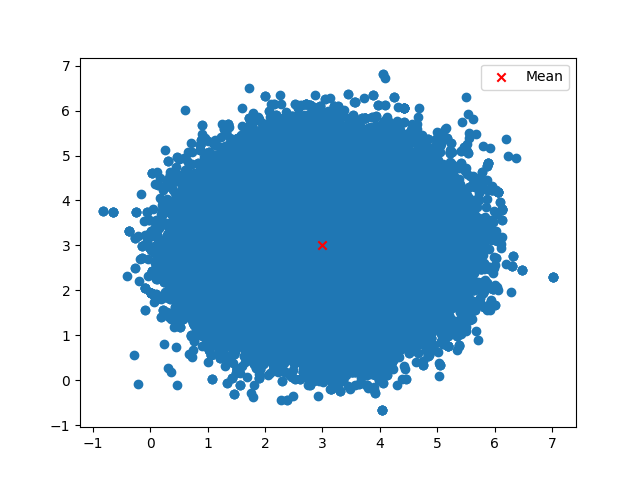
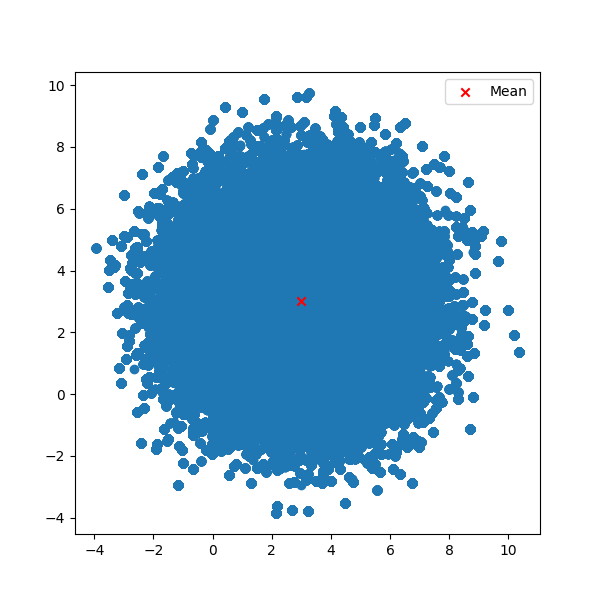
update

diff --git a/jaxhmc/mcmc.py b/jaxhmc/mcmc.py
@@ -9,15 +9,13 @@ from jaxhmc.integrators import leapfrog
 from jaxhmc.potentials import Potential
 
 
-def sample_gaussian_from_precision(batch_size: int, dim: int, precision: jax.Array, key: jax.Array):
-    # We first compute the Cholesky decomposition of the precision matrix
-    L = jnp.linalg.cholesky(precision)
+def sample_gaussian_from_precision(batch_size: int, dim: int, precm_L: jax.Array, key: jax.Array):
     # Then we sample from a standard normal distribution and transform it
     key, subkey = jax.random.split(key, 2)
     z = jax.random.normal(subkey, shape=(batch_size, dim))
 
     # We have x = L^{-T}z, so L^{T}x = z
-    x = jnp.linalg.solve(L.T[None, ...], z[..., None])
+    x = jnp.linalg.solve(precm_L.T[None, ...], z[..., None])
     x = x.squeeze(-1)
     return x, key
 
@@ -40,6 +38,7 @@ def mh(
     potential: Potential,
     potential_grad: nnx.Module,
     precm: jax.Array,
+    precm_L: jax.Array,
     step_size: int,
     steps: int,
     batch_size: int,
@@ -49,7 +48,7 @@ def mh(
     p, key = sample_gaussian_from_precision(
         batch_size,
         potential.dim,
-        precm,
+        precm_L,
         key,
     )
 
@@ -88,16 +87,22 @@ def hmc(potential: Potential, initial_position: jax.Array, config: HMCConfig):
     # and (ii) Metropolis correction. We also update the
     # step size with Robbins-Monro's dual averaging algorithm.
 
-    potential_grad = jax.vmap(jax.grad(potential), in_axes=0)
+    pot_grad_vmap = jax.vmap(jax.grad(potential), in_axes=0)
+    pot_vmap = jax.vmap(potential, in_axes=0)
+
     step_size = config.initial_step_size
+
+    # We first compute the Cholesky decomposition of the precision matrix
+    Lp = jnp.linalg.cholesky(config.initial_precm)
 
     _, (p, q) = jax.lax.scan(
         f=partial(
             mh,
-            potential=potential,
-            potential_grad=potential_grad,
+            potential=pot_vmap,
+            potential_grad=pot_grad_vmap,
             step_size=step_size,
             precm=config.initial_precm,
+            precm_L=Lp,
             steps=config.max_path_len // step_size,
             batch_size=initial_position.shape[0],
         ),

diff --git a/examples/gaussian_mixture.py b/examples/gaussian_mixture.py
@@ -1,0 +1,55 @@
+import time
+
+import jax
+import jax.numpy as jnp
+import matplotlib.pyplot as plt
+
+from jaxhmc.mcmc import HMCConfig, hmc
+from jaxhmc.potentials import GaussianMixturePotential
+
+# We first sample a initial position
+key = jax.random.key(42)
+key, subkey = jax.random.split(key, 2)
+initial_position = jax.random.uniform(subkey, (4, 2))
+
+dim = initial_position.shape[1]
+
+# We the run the HMC
+means = jnp.vstack([jnp.ones(dim) + 2, jnp.ones(dim), jnp.ones(dim) - 2])
+
+potential = GaussianMixturePotential(means=means, sigma=0.2)
+config = HMCConfig(
+    initial_step_size=0.1,
+    max_path_len=50,
+    warmup_steps=100,
+    iterations=20_000,
+    initial_precm=jnp.eye(potential.dim),
+    key=key,
+)
+
+
+# We then JIT the sampler.
+hmc_jit = jax.jit(hmc)
+
+s = time.monotonic_ns()
+momenta, samples = hmc_jit(
+    potential=potential,
+    initial_position=initial_position,
+    config=config,
+)
+
+momenta.block_until_ready()
+samples.block_until_ready()
+e = time.monotonic_ns()
+print("Time taken with JIT:", (e - s) / 1e9)
+
+warmup = 5000
+samples = samples[warmup:]
+samples = samples.reshape(-1, 2)
+# We then plot the samples
+
+plt.scatter(samples[warmup:, 0], samples[warmup:, 1], alpha=0.6)
+plt.scatter(means[:, 0], means[:, 1], color="red", marker="x", label="Mean")
+plt.legend()
+plt.savefig("examples/gaussian_mixture_samples.png")
+plt.show()

diff --git a/jaxhmc/potentials.py b/jaxhmc/potentials.py
@@ -1,8 +1,11 @@
 from abc import abstractmethod
 
+# from functools import partial
 import flax.nnx as nnx
 import jax
 import jax.numpy as jnp
+
+# import jax.scipy as jsp
 
 
 class Potential(nnx.Module):
@@ -19,7 +22,21 @@ class GaussianPotential(Potential):
     def __init__(self, mu: jax.Array, sigma: float = 1.0):
         super().__init__(mu.shape[0])
         self.mu = mu
-        self.sigma = sigma
+        self.sigma = 2 * sigma
 
     def __call__(self, x: jax.Array) -> jax.Array:
         return jnp.sum((x - self.mu) ** 2 / self.sigma**2)
+
+
+class GaussianMixturePotential(Potential):
+    def __init__(self, means: jax.Array, sigma: float):
+        super().__init__(means.shape[1])
+        self.means = means
+        self.sigma = sigma
+        self.k = means.shape[0]
+
+    def __call__(self, x: jax.Array) -> jax.Array:
+        potential = (x - self.means) ** 2 / self.sigma**2
+        potential = jnp.sum(potential, axis=1)
+        potential = jax.nn.logsumexp(-potential / 2, axis=0)
+        return -potential + jnp.log(self.k)

diff --git a/examples/gaussian.py b/examples/gaussian.py
@@ -58,9 +58,12 @@ samples.block_until_ready()
 e = time.monotonic_ns()
 print("Time taken with JIT:", (e - s) / 1e9)  # ~ 30% speed up
 
+warmup = 2000
+samples = samples[warmup:]
 samples = samples.reshape(-1, 2)
 # We then plot the samples
-plt.scatter(samples[:, 0], samples[:, 1])
+plt.figure(figsize=(6, 6))
+plt.scatter(samples[warmup:, 0], samples[warmup:, 1])
 plt.scatter([mu[0]], [mu[1]], color="red", marker="x", label="Mean")
 plt.legend()
 plt.savefig("examples/gaussian_samples.png")

diff --git a/README.md b/README.md
@@ -46,3 +46,21 @@ samples = samples.reshape(-1, 2) # (num_chains * num_samples, dim)
 
 ```
 ![Gaussian Samples](./examples/gaussian_samples.png)
+
+If we change
+
+```py
+potential = GaussianPotential(mu=mu)
+```
+
+by 
+
+```
+potential = GaussianMixturePotential(means=means, sigma=0.2)
+```
+
+we obtain:
+
+![Gaussian Mixture Samples](./examples/gaussian_mixture_samples.png)
+
+See [examples/gaussian_mixture.py](./examples/gaussian_mixture.py).
